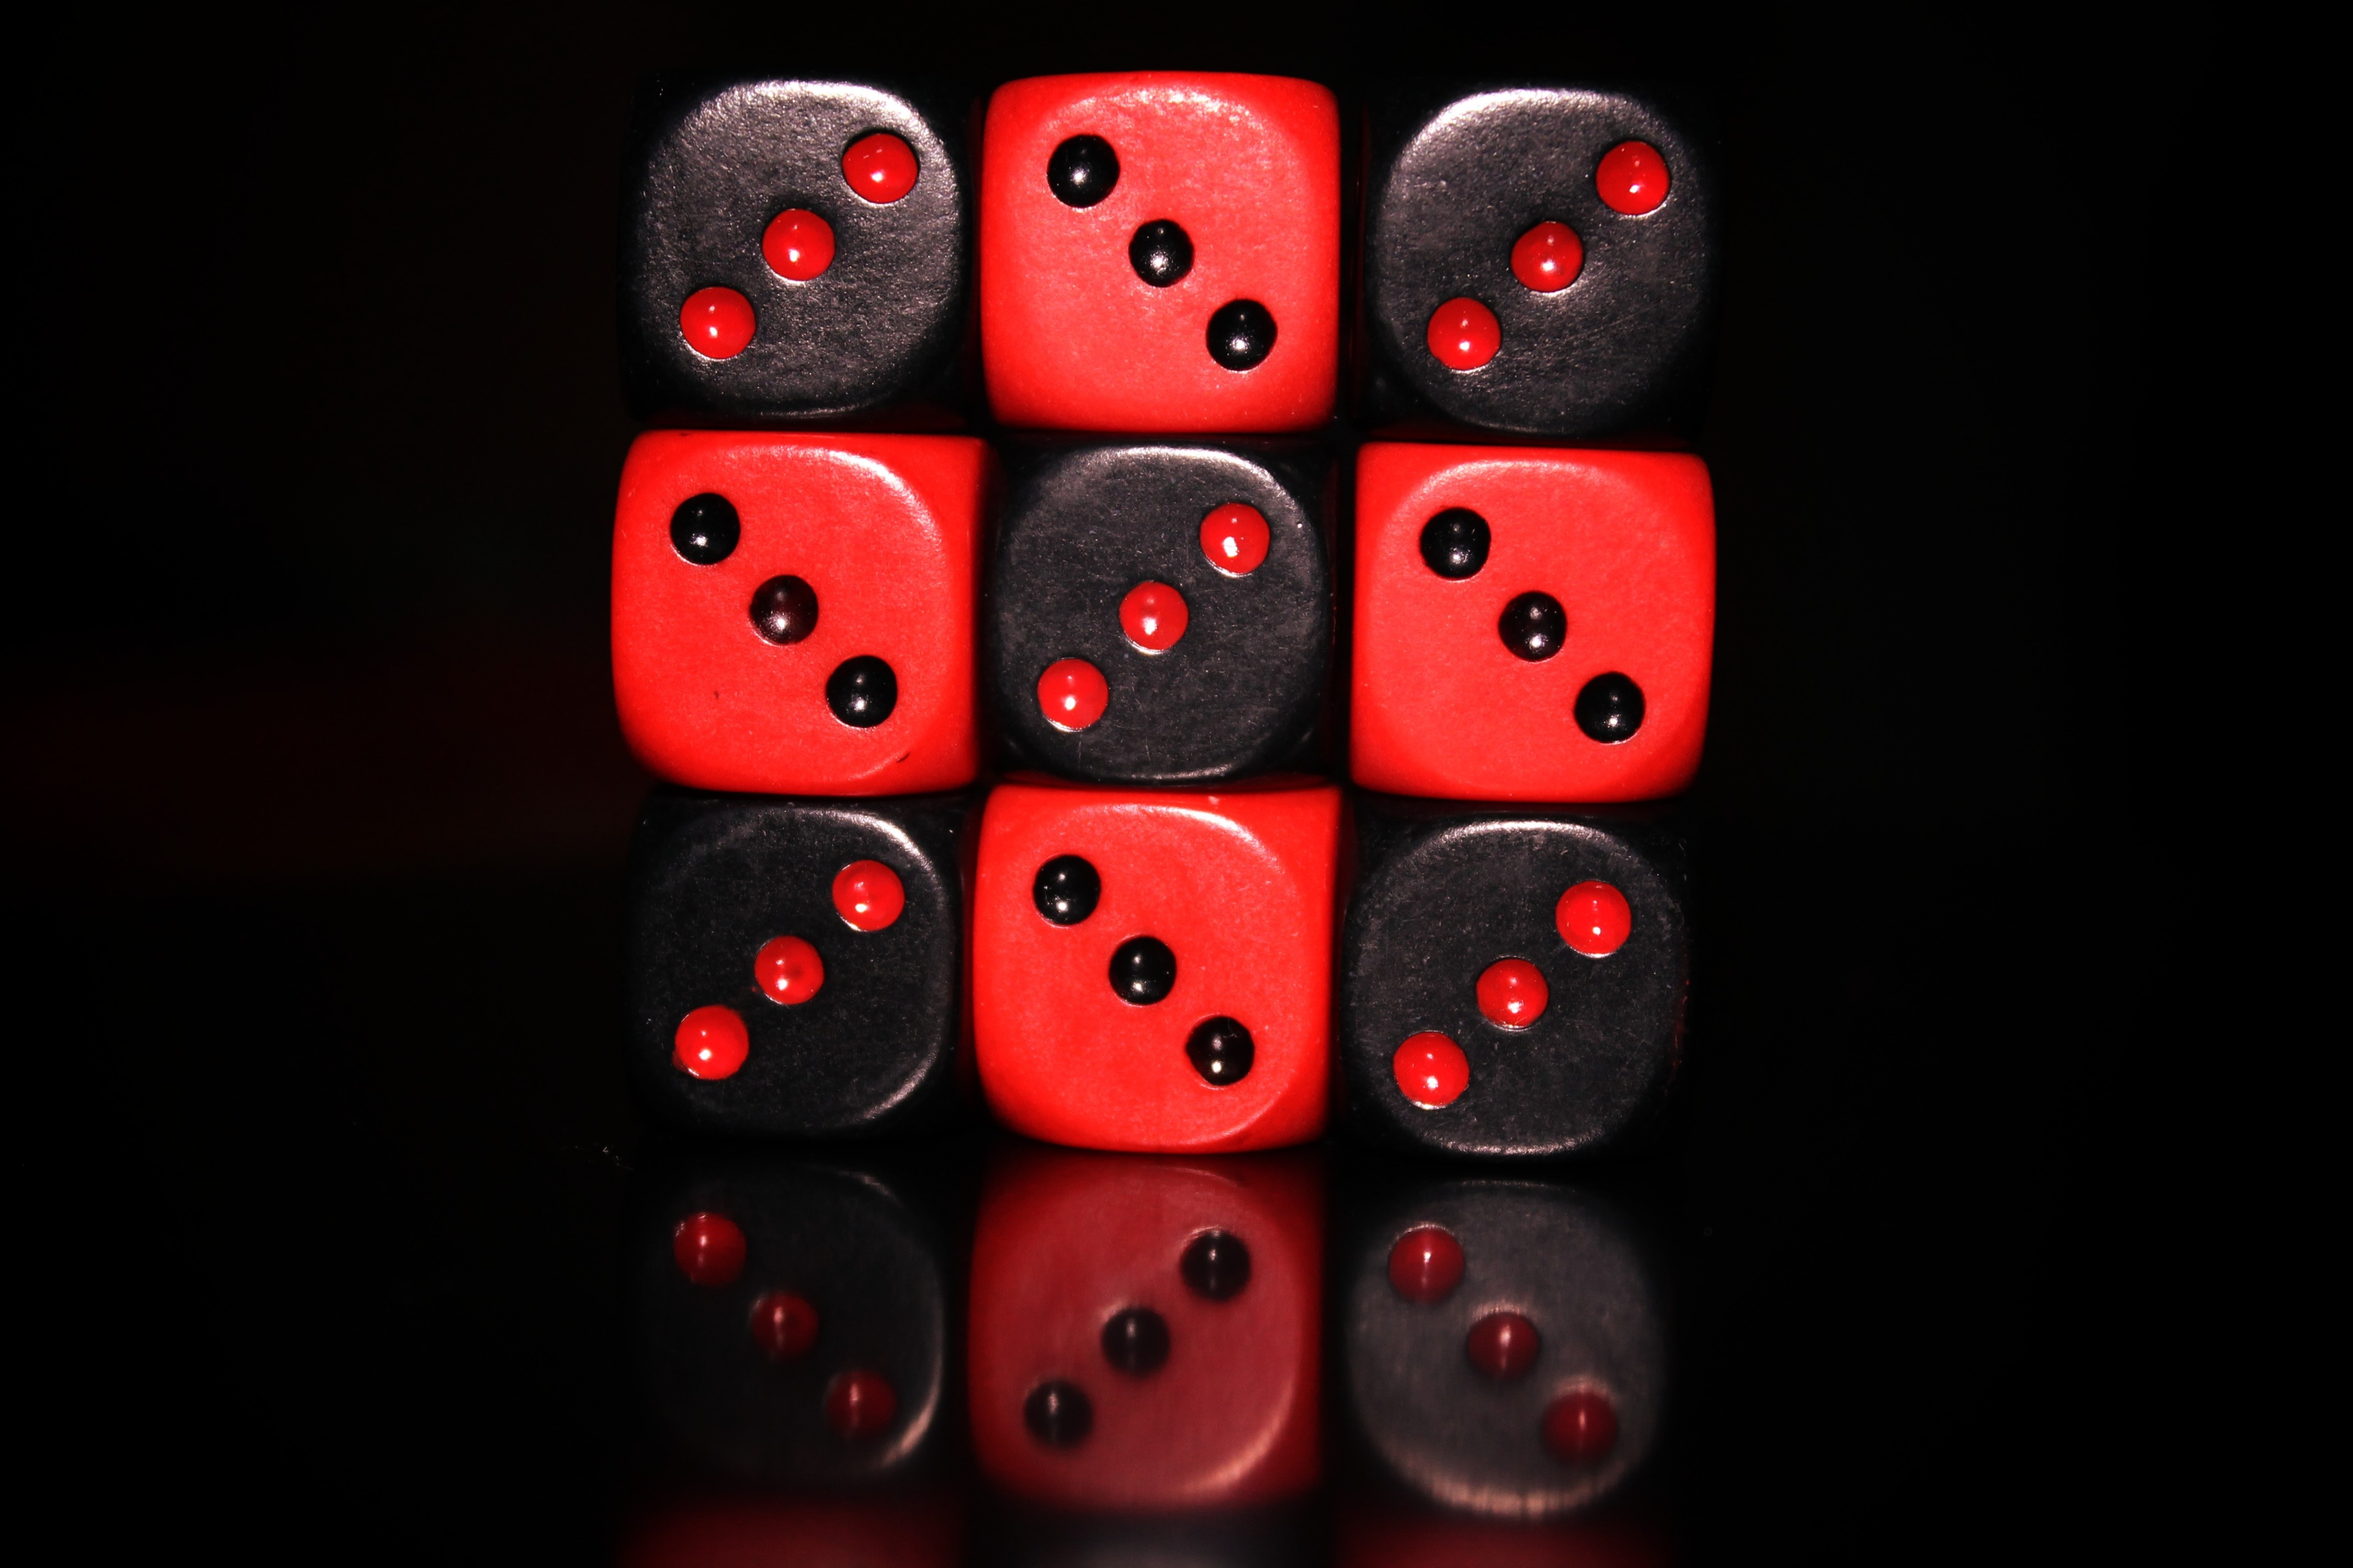
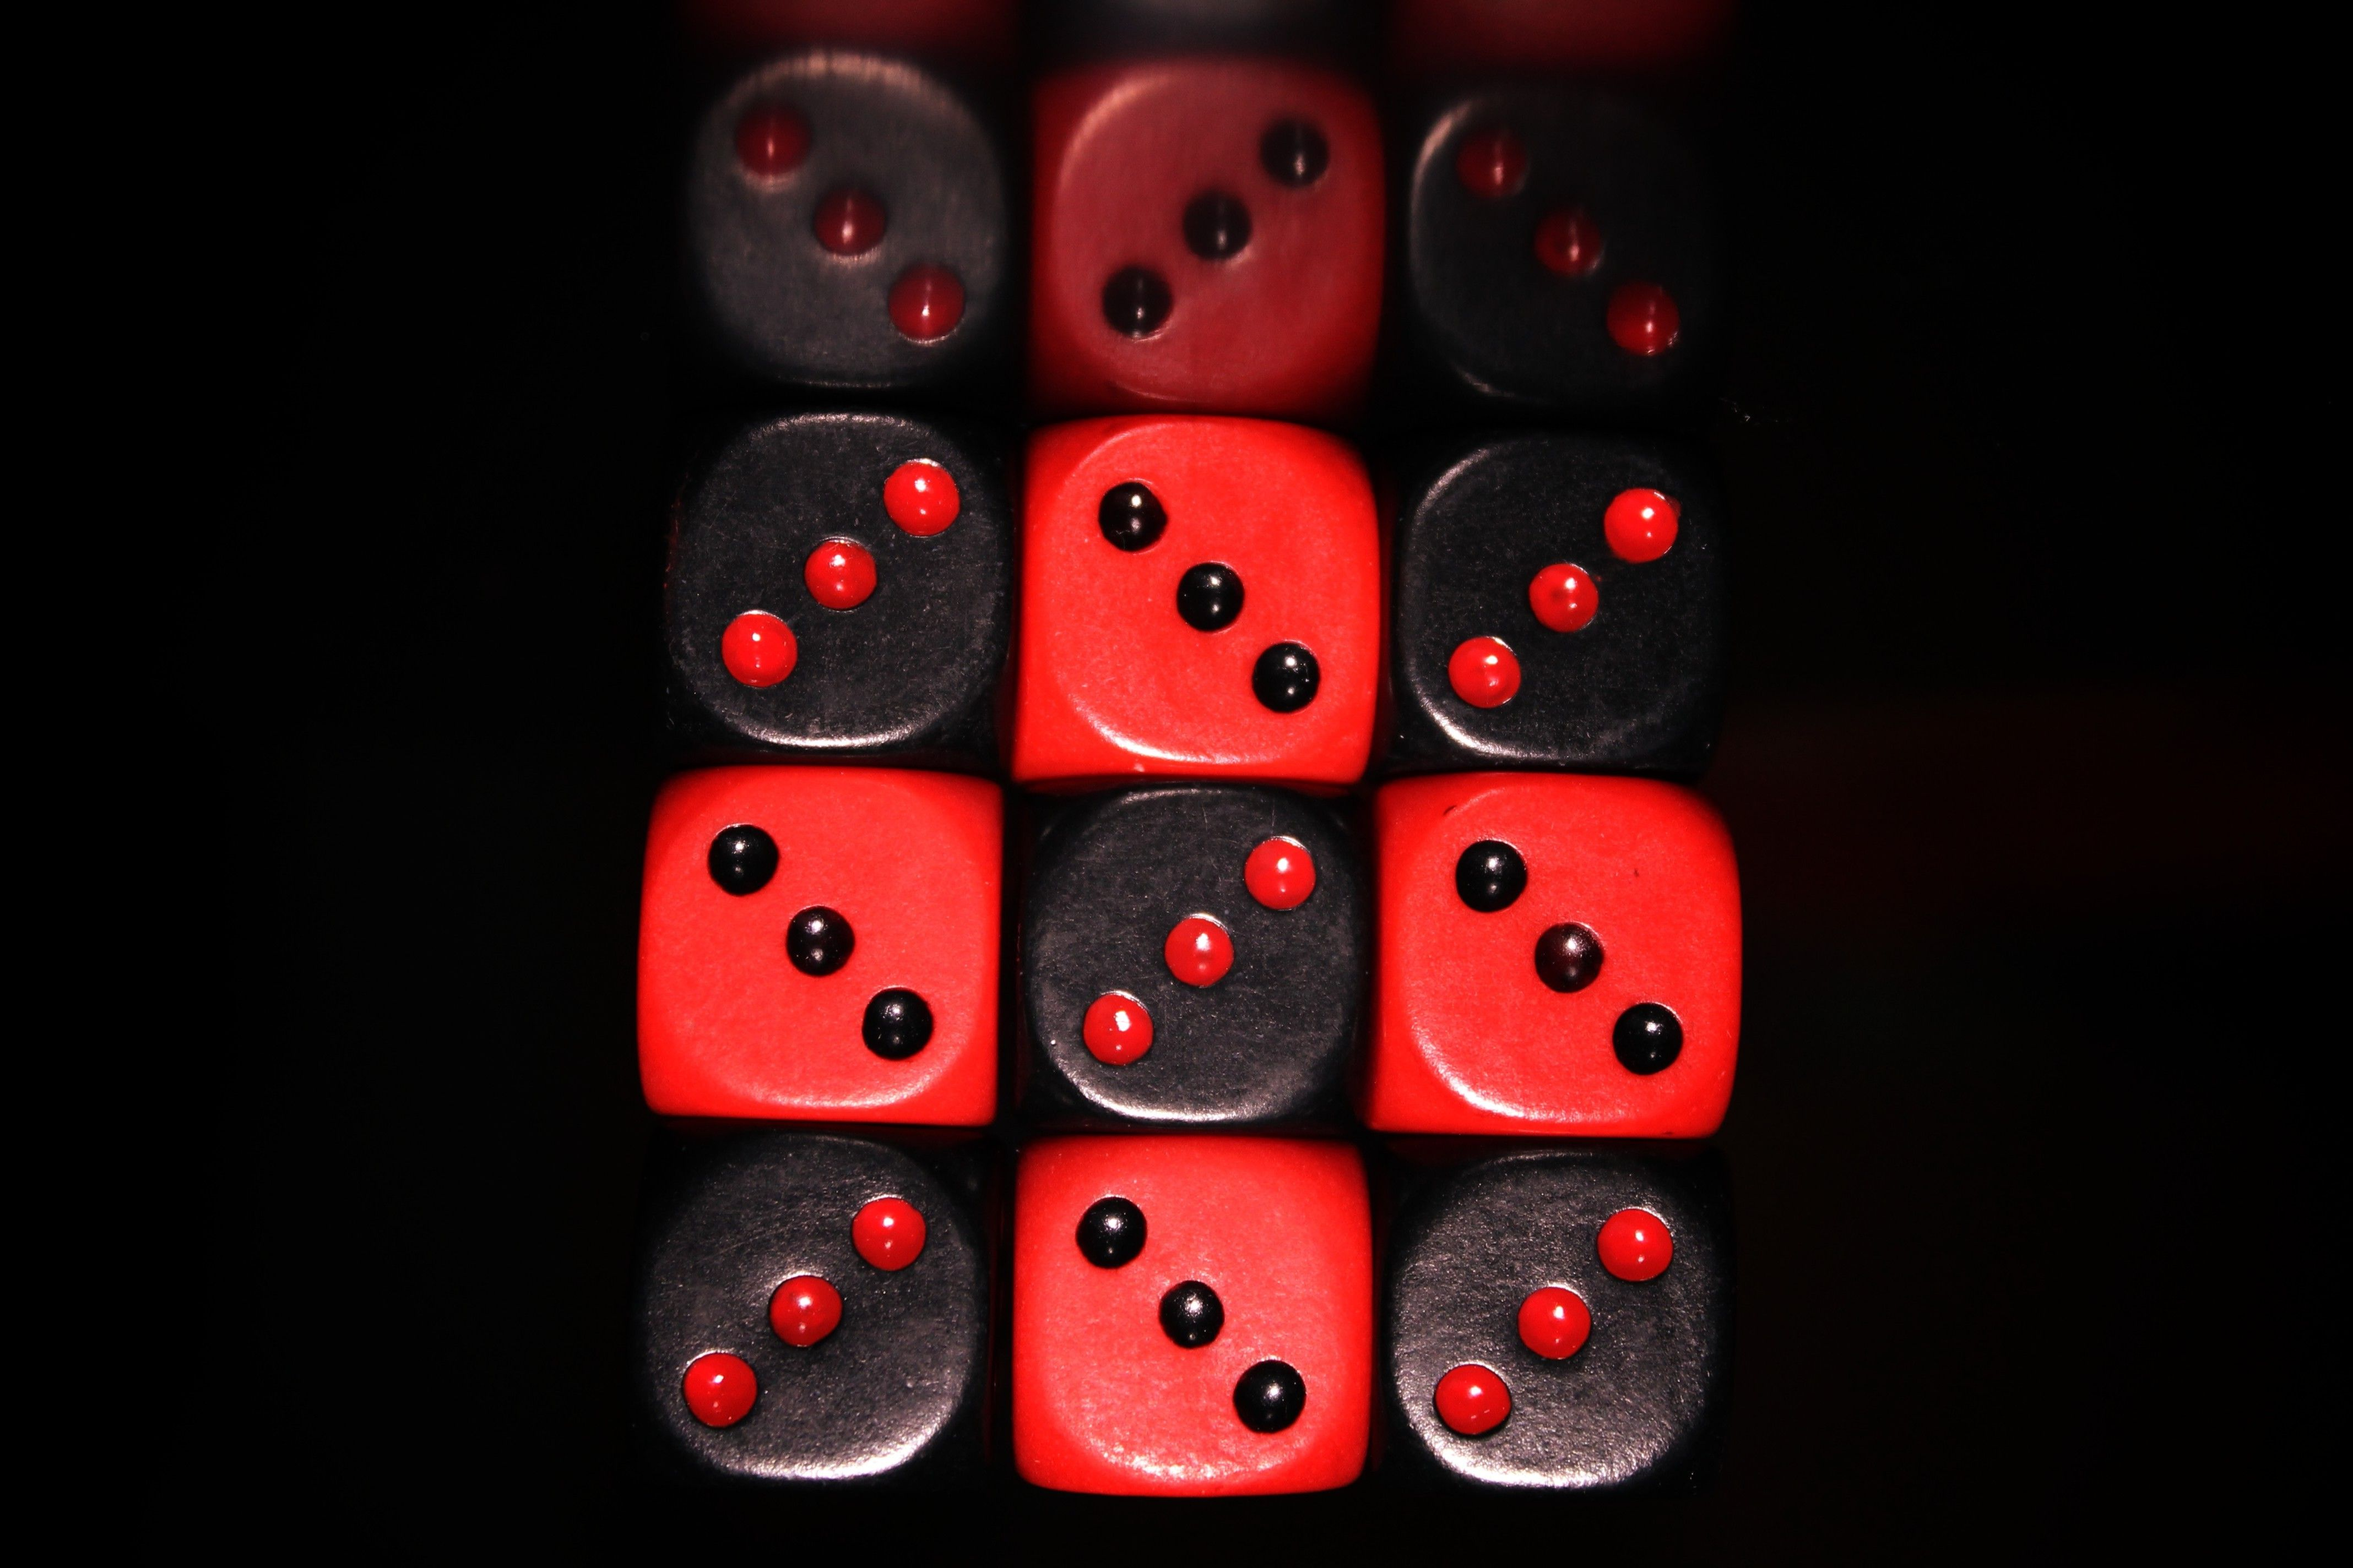
done

diff --git a/style.scss b/style.scss
@@ -1,21 +1,80 @@
-.all{
+.container{
     background-image:url(./img/red_dice.jpg);
+    background-repeat: no-repeat;
     height: 100vh;
-    background-size: cover;
+    background-size: 1500px;
+    background-position:top;
     display: flex;
     flex-direction: column;
+    align-items:center;
+    animation: blurEffect .7s 1;
     
-        h2{
-            
+  
+    .baslik{
+        padding-left:1rem ;
+        display: flex;
+        flex-direction: column;
+    }
+    
+    h2{        
+            box-shadow: 0px 0px 20px red;
+            text-shadow: 0px 0px 5px red;
             font-family: 'Courier New', Courier, monospace;
             font-size: 4rem;
             font-weight: 500;
             color: whitesmoke;
+            background-color: rgba(whitesmoke, .4) ;
+            border-radius: 5px;
+            margin-bottom: 0;
+            // width: fit-content;
+        }
+        
+        h4{        
+            @extend h2;
+            margin-top: 0;
+            font-size: 3rem;
         }
 
         p{
-            color: aliceblue;
-            font-size: larger;
+            color: white;
+            font-size: 1.6rem;
             font-family: 'Courier New', Courier, monospace;
+            font-weight: 600;
+            line-height: 2rem;
+            // align-items: center;
+            background-color: rgba(whitesmoke, .4) ;
+            width: fit-content;
+            text-shadow: 0px 0px 5px black;
+            padding: 1rem 2rem;
+            border-radius: 8px;
+            box-shadow: 0px 0px 20px red;
         }
+        
+        button{
+            text-shadow: 0px 0px 5px red;
+            font-family: 'Courier New', Courier, monospace;
+            font-size: 2rem;
+            font-weight: 700;
+            border: none;
+            padding: 1.5rem;
+            width: 40vw;
+            // margin: auto;
+            color: white;
+            border-radius: 10px;
+            background-color:transparent ;
+            
+            &:hover{
+                background-color: rgba(whitesmoke, .3) ;
+                transform: scale(1.05);
+            }
+        }
+}
+
+@keyframes blurEffect{
+    0%{filter: blur(10px);}
+    20%{filter: blur(8px);}
+    40%{filter: blur(6px);}
+    60%{filter: blur(4px);}
+    80%{filter: blur(2px);}
+    100%{filter: blur(0px);}
 }

diff --git a/style.css b/style.css
@@ -1,20 +1,83 @@
-.all {
+.container {
   background-image: url(./img/red_dice.jpg);
+  background-repeat: no-repeat;
   height: 100vh;
-  background-size: cover;
+  background-size: 1500px;
+  background-position: top;
+  display: flex;
+  flex-direction: column;
+  align-items: center;
+  animation: blurEffect 0.7s 1;
+}
+.container .baslik {
+  padding-left: 1rem;
   display: flex;
   flex-direction: column;
 }
-.all h2 {
+.container h2, .container h4 {
+  box-shadow: 0px 0px 20px red;
+  text-shadow: 0px 0px 5px red;
   font-family: "Courier New", Courier, monospace;
   font-size: 4rem;
   font-weight: 500;
   color: whitesmoke;
+  background-color: rgba(245, 245, 245, 0.4);
+  border-radius: 5px;
+  margin-bottom: 0;
 }
-.all p {
-  color: aliceblue;
-  font-size: larger;
+.container h4 {
+  margin-top: 0;
+  font-size: 3rem;
+}
+.container p {
+  color: white;
+  font-size: 1.6rem;
   font-family: "Courier New", Courier, monospace;
+  font-weight: 600;
+  line-height: 2rem;
+  background-color: rgba(245, 245, 245, 0.4);
+  width: fit-content;
+  text-shadow: 0px 0px 5px black;
+  padding: 1rem 2rem;
+  border-radius: 8px;
+  box-shadow: 0px 0px 20px red;
+}
+.container button {
+  text-shadow: 0px 0px 5px red;
+  font-family: "Courier New", Courier, monospace;
+  font-size: 2rem;
+  font-weight: 700;
+  border: none;
+  padding: 1.5rem;
+  width: 40vw;
+  color: white;
+  border-radius: 10px;
+  background-color: transparent;
+}
+.container button:hover {
+  background-color: rgba(245, 245, 245, 0.3);
+  transform: scale(1.05);
+}
+
+@keyframes blurEffect {
+  0% {
+    filter: blur(10px);
+  }
+  20% {
+    filter: blur(8px);
+  }
+  40% {
+    filter: blur(6px);
+  }
+  60% {
+    filter: blur(4px);
+  }
+  80% {
+    filter: blur(2px);
+  }
+  100% {
+    filter: blur(0px);
+  }
 }
 
 /*# sourceMappingURL=style.css.map */

diff --git a/index.html b/index.html
@@ -8,15 +8,24 @@
     <link rel="icon" href="demo_icon.gif" type="image/png" sizes="64x64">
     <link rel="stylesheet" href="style.css">
 
-    <title>Guess the number</title>
+    <title>Tahmin et ! Guess the number</title>
     <link rel="icon" type="image/x-icon" href="./img/dice.png">
 
 </head>
 <body>
-    <div class="all">
-    <h2> SAYI TAHMİN ETME OYUNU</h2>
-
-    <p>0-100 arasında rastgele bir sayı tutmali ve kullanıcının bu sayıyı 5 kerede tahmin etmesini istemelidir. Her yanlışta hakkını bir düşürmeli ve "arttır azalt diyerek kullanıcıyı yönlendirmelidir. Sonuç olarak kullanıcının hakkı 0 olursa "üzgünüz bilemediniz" veya "tebrikler bildiniz" diye bilgi mesajı yazdırmalıdır.</p>
+    <div class="container">
+        <div class="baslik">
+            <h2> SAYI TAHMİN ETME </h2>
+            <h4> GUESSING THE NUMBER</h4>
+        </div>
+    
+        <div class="paragraf">
+            <p> 0-100 aralığında rastgele bir tam sayı seçildi. <br>
+            Bu sayıyı tahmin etmeye çalışacaksınız. <br>
+            Kolay gelsin.</p>
+        </div>
+    
+        <button onclick="basla()"> OYUNA BAŞLA <br> START THE GAME </button>
 
     </div>
     <!-- rgba(218,0,55,255) -->

diff --git a/app.js b/app.js
@@ -1,0 +1,21 @@
+function basla(){
+    let denemeHakki = +prompt('How many times would you like to have guessing chance ? \n Kaç kere tahmin etme hakkınız olsun ? ');
+
+    let sayi = Math.trunc(Math.random()*100);
+    let sayac = 0;
+
+    while(denemeHakki>0){
+        let tahmin= +prompt("What's your guess ? \n Tahmininiz nedir?");
+        denemeHakki-=1;
+        sayac+=1;
+        
+        if(tahmin < sayi){alert('Tahmininizi yükseltin');}
+        if(tahmin > sayi){alert('Tahmininizi düşürün');}
+
+        if (tahmin == sayi && sayac==1){ alert("tebrikler tek seferde bildiniz."); break;}
+
+        if (tahmin == sayi && sayac!=1){ alert("tebrikler doğru tahmin.");break;}
+        if (tahmin == sayi && sayac!=1){ alert("tebrikler doğru tahmin.");break;}
+        if (tahmin != sayi && denemeHakki==0){ alert("maalesef tahmin edemediniz.");break;}
+    }
+}
